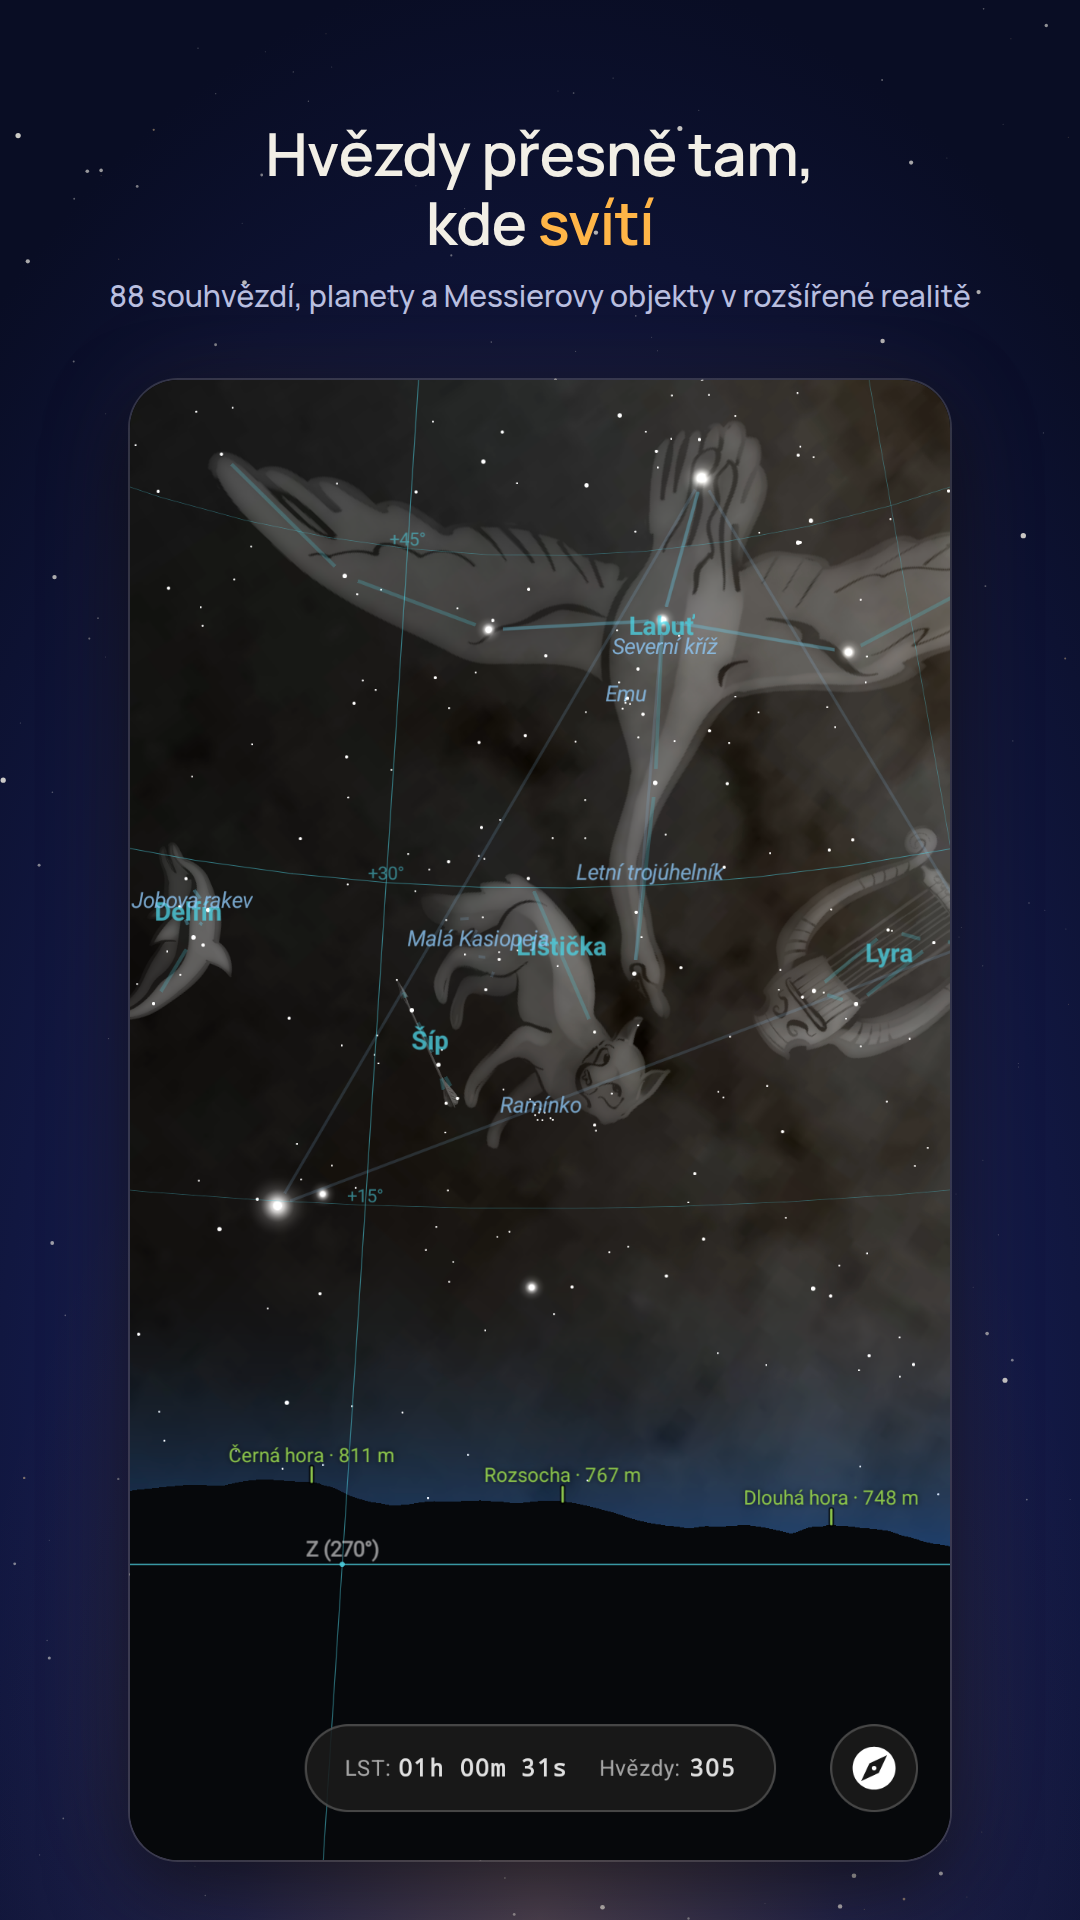
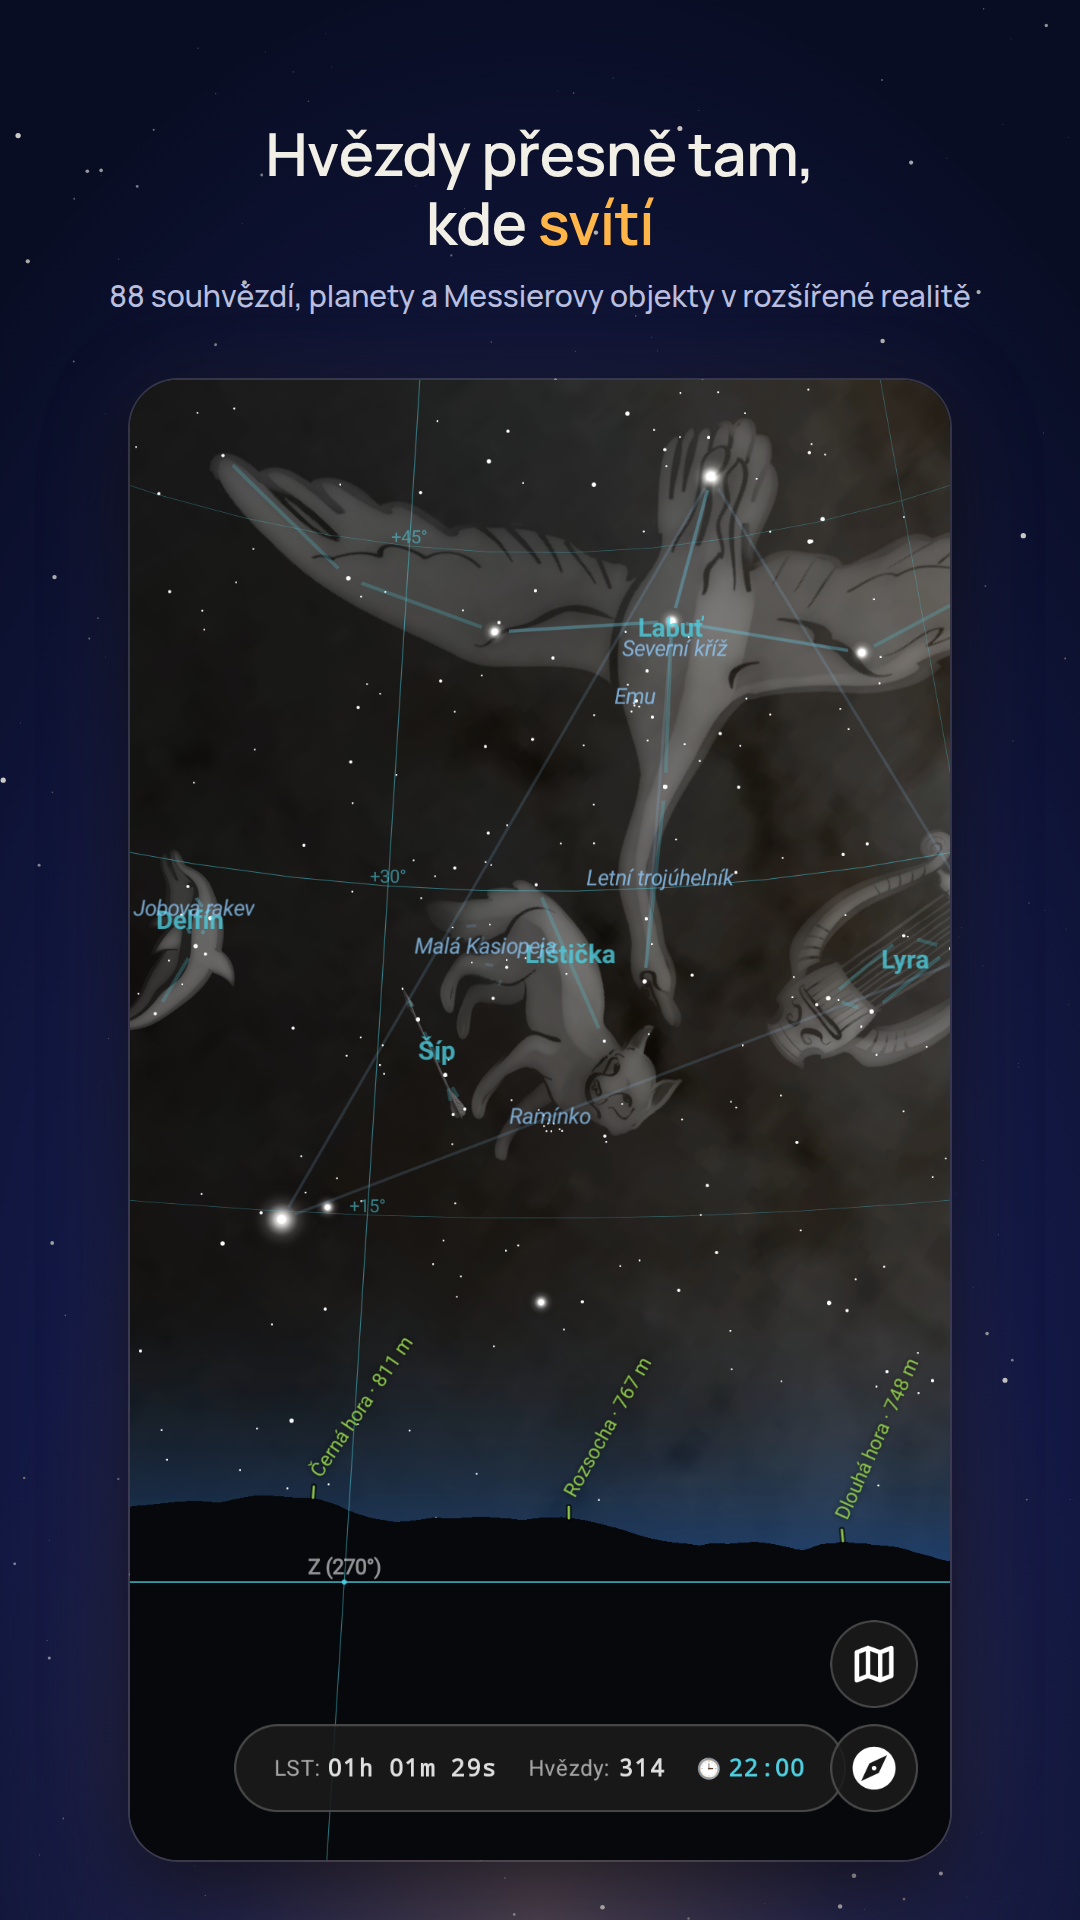
feat(store): show the app in each listing's own language
- Night-sky screenshots recaptured on the phone in cs, en, sk, pl and de
  (manual mode, Cygnus at 278°/+26°, Pegasus and Aquarius at 246°/+29° and 0.6x),
  so constellation names, the HUD and the compass banner match the listing
- Time-lapse, ramp and setup screens rendered per language by the new
  StoreListingScreenshotsTest (Roborazzi, written only when recording)
  into design/play-store/raw/<lang>/; they were English captures from August
- phone-screenshot.html picks raw/<lang>/ for every shot except Sun AR, which
  needs daylight and stays the shared Czech capture for now
- All five listings' phone screenshots re-rendered; AGENTS.md baseline now
  1263 JVM tests (31 in docs)

diff --git a/app/src/test/java/com/dazix/caelis/docs/StoreListingScreenshotsTest.kt b/app/src/test/java/com/dazix/caelis/docs/StoreListingScreenshotsTest.kt
@@ -1,0 +1,162 @@
+package com.dazix.caelis.docs
+
+import androidx.compose.ui.test.junit4.createComposeRule
+import androidx.compose.ui.test.onRoot
+import com.dazix.caelis.domain.SessionSnapshot
+import com.dazix.caelis.domain.SessionState
+import com.dazix.caelis.ui.AppNavigationShell
+import com.dazix.caelis.ui.CaelisTheme
+import com.dazix.caelis.ui.HomeScreen
+import com.dazix.caelis.ui.ModeChoice
+import com.dazix.caelis.ui.RampScreen
+import com.dazix.caelis.ui.Screen
+import com.dazix.caelis.ui.SetupScreen
+import com.dazix.caelis.ui.SetupUiState
+import com.dazix.caelis.ui.TimeUnitChoice
+import com.github.takahirom.roborazzi.captureRoboImage
+import org.junit.After
+import org.junit.Before
+import org.junit.Rule
+import org.junit.Test
+import org.junit.runner.RunWith
+import org.robolectric.ParameterizedRobolectricTestRunner
+import org.robolectric.RuntimeEnvironment
+import org.robolectric.annotation.Config
+import org.robolectric.annotation.GraphicsMode
+import java.io.File
+import java.util.Locale
+
+/**
+ * The app screens inside the Play listing's phone screenshots, rendered in the listing's own
+ * language. They used to be the English captures from [DocumentationScreenshotsTest] for every
+ * listing, so a Czech or German visitor saw an English app.
+ *
+ * Written only when recording (`./gradlew :app:recordRoborazziDebug --tests '*StoreListingScreenshotsTest*'`)
+ * into `design/play-store/raw/<language>/`, where `design/play-store/phone-screenshot.html` frames them.
+ */
+@RunWith(ParameterizedRobolectricTestRunner::class)
+@GraphicsMode(GraphicsMode.Mode.NATIVE)
+@Config(qualifiers = "w411dp-h891dp-420dpi", sdk = [34])
+class StoreListingScreenshotsTest(private val language: String) {
+
+    companion object {
+        @JvmStatic
+        @ParameterizedRobolectricTestRunner.Parameters(name = "{0}")
+        fun languages() = listOf("en", "cs", "sk", "pl", "de")
+    }
+
+    @get:Rule
+    val composeTestRule = createComposeRule()
+
+    private lateinit var previousLocale: Locale
+
+    @Before
+    fun setLanguage() {
+        previousLocale = Locale.getDefault()
+        // Number formats ("3,4 s") follow the default locale, the strings follow the qualifier.
+        Locale.setDefault(Locale.forLanguageTag(language))
+        RuntimeEnvironment.setQualifiers("+$language")
+    }
+
+    @After
+    fun restoreLanguage() {
+        Locale.setDefault(previousLocale)
+    }
+
+    private fun shotPath(fileName: String): String {
+        val rootDir = if (File("design").exists()) File(".") else File("..")
+        val targetDir = File(rootDir, "design/play-store/raw/$language").apply { mkdirs() }
+        return File(targetDir, fileName).absolutePath
+    }
+
+    private val setup = SetupUiState(
+        mode = ModeChoice.TIMELAPSE,
+        targetPackage = "com.google.android.GoogleCamera",
+        targetLabel = "Pixel Camera",
+        intervalValue = "5",
+        intervalUnit = TimeUnitChoice.SECONDS,
+        shotCount = "120",
+        unlimitedShots = false,
+        startDelayValue = "3",
+        startDelayUnit = TimeUnitChoice.SECONDS,
+    )
+
+    @Test
+    fun timeLapseRunning() {
+        composeTestRule.setContent {
+            CaelisTheme(darkTheme = true) {
+                AppNavigationShell(current = Screen.HOME, onNavigate = {}, enabled = true) {
+                    HomeScreen(
+                        snapshot = SessionSnapshot(
+                            state = SessionState.Running,
+                            shotsTaken = 24,
+                            shotsPlanned = 120,
+                            lastIntervalMs = 5000L,
+                            nextShotAtElapsed = 3500L,
+                        ),
+                        setup = setup,
+                        calibrated = true,
+                        blockers = emptyList(),
+                        serviceUnavailable = false,
+                        handheldWarning = true,
+                        onStart = {},
+                        onStop = {},
+                        onPause = {},
+                        onResume = {},
+                        onNavigate = {},
+                        onCalibrate = {},
+                        onOpenAccessibilitySettings = {},
+                        onOpenOverlaySettings = {},
+                        onDismissServiceMessage = {},
+                    )
+                }
+            }
+        }
+        composeTestRule.onRoot().captureRoboImage(shotPath("time-lapse.png"))
+    }
+
+    @Test
+    fun ramp() {
+        composeTestRule.setContent {
+            CaelisTheme(darkTheme = true) {
+                RampScreen(
+                    state = setup.copy(
+                        rampEnabled = true,
+                        rampEndValue = "30",
+                        rampEndUnit = TimeUnitChoice.SECONDS,
+                        rampOverShots = "100",
+                    ),
+                    floorMs = 1000L,
+                    onChange = {},
+                    onBack = {},
+                )
+            }
+        }
+        composeTestRule.onRoot().captureRoboImage(shotPath("ramp.png"))
+    }
+
+    @Test
+    fun setup() {
+        composeTestRule.setContent {
+            CaelisTheme(darkTheme = true) {
+                SetupScreen(
+                    state = setup.copy(
+                        minBatteryEnabled = true,
+                        minBatteryPercent = "20",
+                        minFreeSpaceEnabled = true,
+                        minFreeSpaceMb = "1000",
+                    ),
+                    floorMs = 1000L,
+                    mediaPermissionGranted = true,
+                    mediaPermissionPartial = false,
+                    onChange = {},
+                    onJitterChange = {},
+                    onRequestMediaPermission = {},
+                    onOpenAppSettings = {},
+                    onBack = {},
+                )
+            }
+        }
+        composeTestRule.onRoot().captureRoboImage(shotPath("setup.png"))
+    }
+}

diff --git a/design/play-store/phone-screenshot.html b/design/play-store/phone-screenshot.html
@@ -44,14 +44,18 @@
 <script>
 // Each shot: source screenshot (1080 x ~2340) and which edge of it the 820 x 1480 window keeps.
 // AR screens keep the bottom: their top bar shows the user's coordinates and transient banners.
+// {lang} is the listing's language: every listing shows the app in its own language. raw/<lang>/
+// holds the night-sky captures from the phone (manual mode, 278°/+26° at 1x and 246°/+29° at 0.6x,
+// virtual time 22:00 on 2026-11-05) and the app screens rendered by StoreListingScreenshotsTest.
+// The Sun AR shot needs daylight and is still one Czech capture for every language.
 const SHOTS = [
-  { src: 'raw/night-sky-cygnus.png', pos: 'bottom',
+  { src: 'raw/{lang}/night-sky-cygnus.png', pos: 'bottom',
     cs: ['Hvězdy přesně tam,<br>kde <em>svítí</em>', '88 souhvězdí, planety a Messierovy objekty v rozšířené realitě'],
     en: ['Stars right where<br>they <em>shine</em>', '88 constellations, planets and Messier objects in AR'],
     sk: ['Hviezdy presne tam,<br>kde <em>svietia</em>', '88 súhvezdí, planéty a Messierove objekty v rozšírenej realite'],
     pl: ['Gwiazdy dokładnie tam,<br>gdzie <em>świecą</em>', '88 gwiazdozbiorów, planety i obiekty Messiera w AR'],
     de: ['Sterne genau dort,<br>wo sie <em>leuchten</em>', '88 Sternbilder, Planeten und Messier-Objekte in AR'] },
-  { src: 'raw/night-sky-pegasus.png', pos: 'bottom',
+  { src: 'raw/{lang}/night-sky-pegasus.png', pos: 'bottom',
     cs: ['<em>Skutečný</em> horizont<br>s názvy vrcholů', 'Terén z výškového modelu, funguje i bez signálu'],
     en: ['The <em>real</em> horizon,<br>with peak names', 'Terrain from an elevation model, works with no signal'],
     sk: ['<em>Skutočný</em> horizont<br>s názvami vrcholov', 'Terén z výškového modelu, funguje aj bez signálu'],
@@ -63,19 +67,19 @@ const SHOTS = [
     sk: ['Kadiaľ pôjde <em>Slnko</em><br>a kedy zapadne', 'Dráha Slnka a Mesiaca priamo v obraze kamery'],
     pl: ['Którędy przejdzie <em>Słońce</em><br>i kiedy zajdzie', 'Trasa Słońca i Księżyca na żywym obrazie z kamery'],
     de: ['Wohin die <em>Sonne</em> wandert<br>und wann sie untergeht', 'Sonnen- und Mondbahn live im Kamerabild'] },
-  { src: '../../docs/screenshots/03_main_active_dark.png', pos: 'bottom',
+  { src: 'raw/{lang}/time-lapse.png', pos: 'bottom',
     cs: ['Časosběr ve vašem<br><em>fotoaparátu</em>', 'Každý snímek s HDR+, nočním i astro režimem'],
     en: ['Time-lapse in your<br>own <em>camera app</em>', 'Every frame keeps HDR+, Night Sight and astro modes'],
     sk: ['Časozber vo vašom<br><em>fotoaparáte</em>', 'Každá snímka s HDR+, nočným aj astro režimom'],
     pl: ['Timelapse w Twoim<br><em>aparacie</em>', 'Każda klatka z HDR+, trybem nocnym i astro'],
     de: ['Zeitraffer in Ihrer<br><em>Kamera-App</em>', 'Jedes Bild mit HDR+, Nacht- und Astro-Modus'] },
-  { src: '../../docs/screenshots/05_ramp_screen.png', pos: 'top',
+  { src: 'raw/{lang}/ramp.png', pos: 'top',
     cs: ['Plynulý <em>ramping</em><br>intervalu', 'Lineárně i exponenciálně – ideální na západ slunce'],
     en: ['Smooth interval<br><em>ramping</em>', 'Linear or exponential – made for sunsets'],
     sk: ['Plynulý <em>ramping</em><br>intervalu', 'Lineárne aj exponenciálne – ideálne na západ slnka'],
     pl: ['Płynna <em>rampa</em><br>interwału', 'Liniowo i wykładniczo – idealne na zachód słońca'],
     de: ['Sanfte <em>Rampen</em><br>fürs Intervall', 'Linear oder exponentiell – ideal für Sonnenuntergänge'] },
-  { src: '../../docs/screenshots/04_setup_screen.png', pos: 'top',
+  { src: 'raw/{lang}/setup.png', pos: 'top',
     cs: ['Časosběr i <em>klepání</em><br>v jakékoli aplikaci', 'Přesný rozvrh bez driftu, automatické zastavení'],
     en: ['Time-lapse or <em>taps</em><br>in any app', 'Drift-free schedule and automatic stop'],
     sk: ['Časozber aj <em>klepanie</em><br>v akejkoľvek aplikácii', 'Presný rozvrh bez driftu, automatické zastavenie'],
@@ -88,7 +92,7 @@ const lang = q.get('lang') || 'cs';
 document.getElementById('head').innerHTML = shot[lang][0];
 document.getElementById('sub').textContent = shot[lang][1];
 const img = document.getElementById('img');
-img.src = shot.src;
+img.src = shot.src.replace('{lang}', lang);
 img.style.objectPosition = '50% ' + (shot.pos === 'top' ? '0%' : '100%');
 if (shot.pos === 'top') document.getElementById('shot').classList.add('cut');
 

diff --git a/AGENTS.md b/AGENTS.md
@@ -89,7 +89,7 @@ scripts/e2e_pixel_camera.sh
 ```
 
 Read the totals from `app/build/test-results/testDebugUnitTest/*.xml` (`tests` / `failures` / `errors` /
-`skipped`), not from the console. Current baseline: **1277 JVM tests (372 intervalometer, 729 solar, horizon & pose, 421 night sky — `solar` and `nightsky` overlap on `domain.arframe`, `ar.scene` and the virtual places (`domain.location`, `data.location`), which is why the three do not add up — plus 16 in `docs`, which no scoped suite runs), 53
+`skipped`), not from the console. Current baseline: **1292 JVM tests (372 intervalometer, 729 solar, horizon & pose, 421 night sky — `solar` and `nightsky` overlap on `domain.arframe`, `ar.scene` and the virtual places (`domain.location`, `data.location`), which is why the three do not add up — plus 31 in `docs`, which no scoped suite runs), 53
 instrumented tests, 0 failures, 0 skips, lint 0 errors.** Anything less is a regression.
 
 `run_tests.sh` filters by package, and a new `domain/` package is picked up by **no** suite until it is added
